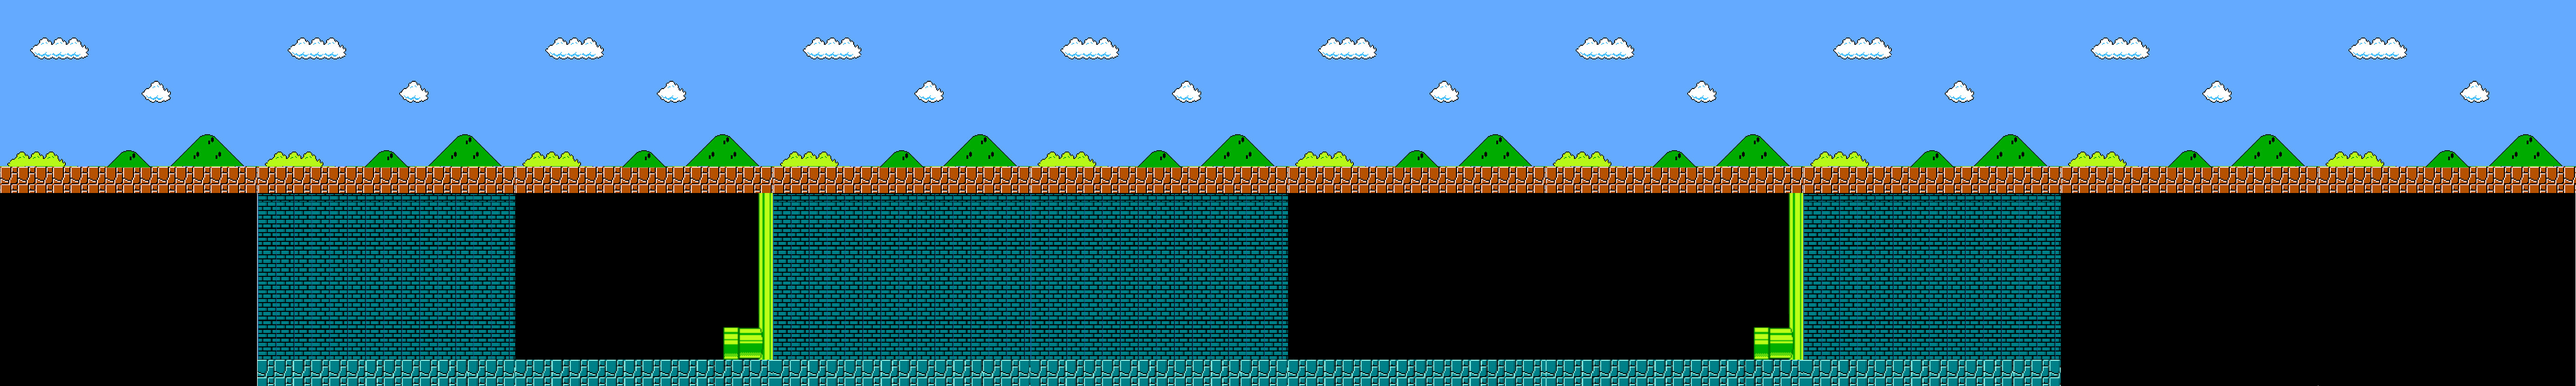
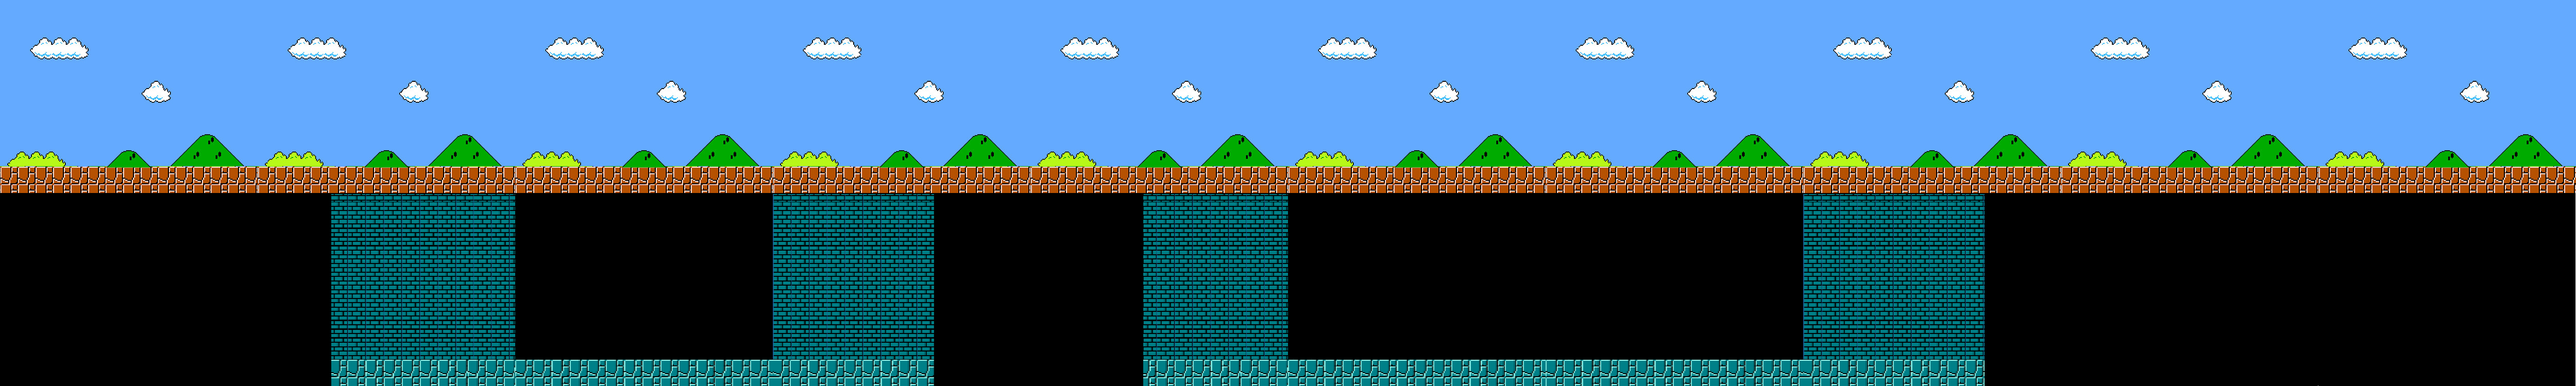
feat: blocks

diff --git a/assets/js/models/game.js b/assets/js/models/game.js
@@ -28,6 +28,11 @@ class Game {
             //new BlockItem(this.ctx, 450 * RF, 150 * RF, 37 * RF, 37 * RF),
         ];
 
+        this.blocks = [
+            //new Block(this.ctx, 300 * RF, 150 * RF, 40 * RF, 40 * RF),
+            //new Block(this.ctx, 450 * RF, 250 * RF, 40 * RF, 40 * RF),
+        ];
+
         this.pipelines = [
             new Pipeline(this.ctx, 1000 * RF, 255 * RF, 65 * RF, 69 * RF), //Go down
             new Pipeline(this.ctx, 450 * RF, -750 * RF, 65 * RF, 750 * RF), //Left border
@@ -80,6 +85,7 @@ class Game {
         this.background.draw();
         this.platforms.forEach((platform) => platform.draw());
         this.blocksItem.forEach((block) => block.draw());
+        this.blocks.forEach((block) => block.draw());
         this.pipelines.forEach((pipeline) => pipeline.draw());
         //this.coins.forEach((coin)=> coin.draw());
         //this.enemies.forEach((enemy) => enemy.draw())
@@ -92,6 +98,7 @@ class Game {
         this.background.move(this.mario);
         this.platforms.forEach((platform) => platform.move(this.background));
         this.blocksItem.forEach((block) => block.move(this.background));
+        this.blocks.forEach((block) => block.move(this.background));
         this.pipelines.forEach((pipeline) => pipeline.move(this.background));
         //this.coins.forEach((coin) => coin.move(this.background));
         //this.enemies.forEach((enemie) => enemie.move(this.background))
@@ -106,6 +113,7 @@ class Game {
             this.pipelines.forEach((pipeline) => pipeline.y += this.canvas.height);
             this.platforms.forEach((platform) => platform.y += this.canvas.height);
             this.blocksItem.forEach((block) => block.y += this.canvas.height);
+            this.blocks.forEach((block) => block.y += this.canvas.height);
             this.mario.y = 0;
         }
 
@@ -114,6 +122,7 @@ class Game {
             this.pipelines.forEach((pipeline) => pipeline.y -= this.canvas.height);
             this.platforms.forEach((platform) => platform.y -= this.canvas.height);
             this.blocksItem.forEach((block) => block.y -= this.canvas.height);
+            this.blocks.forEach((block) => block.y -= this.canvas.height);
         }
         
         this.pipelines.forEach((pipeline) => {
@@ -163,11 +172,11 @@ class Game {
             }
             
             if (block.collidesWithLeft(this.mario)) {
-                this.mario.x = block.x - this.mario.w;
+                this.mario.x = block.x - this.mario.w - (5 * RF);
            }
            
            if (block.collidesWithRight(this.mario)) {
-                this.mario.x = block.x + block.w;
+                this.mario.x = block.x + block.w + (5 * RF);
            }
            
            if (block.collidesWithUp(this.mario)) {
@@ -179,5 +188,35 @@ class Game {
                 this.mario.y0 = this.canvas.height - MARIO_GROUND_PADDING;
            }
         });
-    }
+
+        this.blocks.forEach((block, index) => {
+
+            if (block.collidesWithDown(this.mario)) {
+                this.mario.y = block.y + block.h;
+                this.mario.vy = 0;
+                block.status.isOn = false;
+                block.status.isOff = true;
+                if (block.sprite.horizontalFrameIndex === 1) {
+                    delete(this.blocks[index]);
+                }
+            }
+            
+            if (block.collidesWithLeft(this.mario)) {
+                this.mario.x = block.x - this.mario.w - (5 * RF);
+           }
+           
+           if (block.collidesWithRight(this.mario)) {
+                this.mario.x = block.x + block.w + (5 * RF);
+           }
+           
+           if (block.collidesWithUp(this.mario)) {
+                this.mario.y = block.y - this.mario.h;
+                this.mario.vy = 0;
+                this.mario.movements.isJumping = false;
+                
+            } else {
+                this.mario.y0 = this.canvas.height - MARIO_GROUND_PADDING;
+           }
+        });
+    }      
 }

diff --git a/assets/js/models/block.js b/assets/js/models/block.js
@@ -1,0 +1,114 @@
+class Block {
+    
+    constructor (ctx, x, y, w, h) {
+        
+        this.ctx = ctx;
+
+        this.x = x;
+        this.y = y;
+        this.w = w;
+        this.h = h;
+
+        this.vx = BACKGROUND_SPEED;
+        
+        this.sprite = new Image();
+        this.sprite.src = 'assets/img/block.png';
+        
+        this.sprite.verticalFrames = 1;
+        this.sprite.verticalFrameIndex = 0;
+        this.sprite.horizontalFrames = 2;
+        this.sprite.horizontalFrameIndex = 0;
+        
+        this.sprite.onload = () => {
+            this.sprite.isReady = true;
+            this.sprite.frameWidth = Math.ceil(this.sprite.width / this.sprite.horizontalFrames);
+            this.sprite.frameHeight = Math.ceil(this.sprite.height / this.sprite.verticalFrames);
+        }
+
+        this.status = {
+            isOn: true,
+            isOff: false
+        }
+    }
+
+    draw() {
+        
+        if (this.sprite.isReady) {
+            this.ctx.drawImage(
+                this.sprite,
+                this.sprite.horizontalFrameIndex * this.sprite.frameWidth,
+                this.sprite.verticalFrameIndex * this.sprite.frameHeight,
+                this.sprite.frameWidth,
+                this.sprite.frameHeight,
+                this.x,
+                this.y,
+                this.w,
+                this.h
+            );
+        }
+
+        this.animate();
+    }
+
+    animate() {
+        
+        if (this.status.isOn) {
+            this.sprite.horizontalFrameIndex = 0;
+        }
+        
+        if (this.status.isOff) {
+            this.sprite.horizontalFrameIndex = 1;        
+        }
+    }
+    
+    move(background) {
+        
+        if (background.movements.left) {
+            this.x -= BACKGROUND_SPEED;
+        
+        } else if (background.movements.right) {
+            this.x += BACKGROUND_SPEED;
+        }
+    }
+
+    collidesWithLeft(element) {
+        
+        return (
+            element.x + element.w >= this.x &&
+            element.x + element.w <= this.x + (10 * RF) &&
+            element.y + element.h > this.y + (5 * RF) && 
+            element.y < this.y + this.h - (5 * RF)
+
+        )
+    }
+    
+    collidesWithRight(element) {
+        
+        return (
+            element.x <= this.x + this.w &&
+            element.x  >= this.x + this.w - (10 * RF) &&
+            element.y + element.h > this.y + (5 * RF) &&
+            element.y < this.y + this.h - (5 * RF)
+        )
+    }
+    
+    collidesWithUp(element) {
+
+        return (
+            element.y + element.h > this.y &&
+            element.y + element.h < this.y + (10 * RF)  &&
+            element.x + element.w >= this.x + (5 * RF) &&
+            element.x <= this.x + this.w - (5 * RF)
+        )
+    }
+
+    collidesWithDown(element) {
+
+        return (
+            element.x + element.w >= this.x + (5 * RF) &&
+            element.x <= this.x + this.w - (10 * RF) &&
+            element.y > this.y + this.h - (20 * RF) &&
+            element.y < this.y + this.h 
+        )
+    }
+}

diff --git a/index.html b/index.html
@@ -12,6 +12,7 @@
         <script src="assets/js/models/background.js"></script>
         <script src="assets/js/models/platform.js"></script>
         <script src="assets/js/models/pipeline.js"></script>
+        <script src="assets/js/models/block.js"></script>
         <script src="assets/js/models/block-item.js"></script>
         <script src="assets/js/models/bullet.js"></script>
         <script src="assets/js/models/mario.js"></script>

diff --git a/assets/js/models/platform.js b/assets/js/models/platform.js
@@ -41,8 +41,8 @@ class Platform {
         return (
             element.y + element.h > this.y &&
             element.y + element.h < this.y + (10 * RF)  &&
-            element.x + element.w >= this.x + (5 * RF) &&
-            element.x <= this.x + this.w - (5 * RF)
+            element.x + element.w >= this.x + (10 * RF) &&
+            element.x <= this.x + this.w - (10 * RF)
         )
     }    
 }
